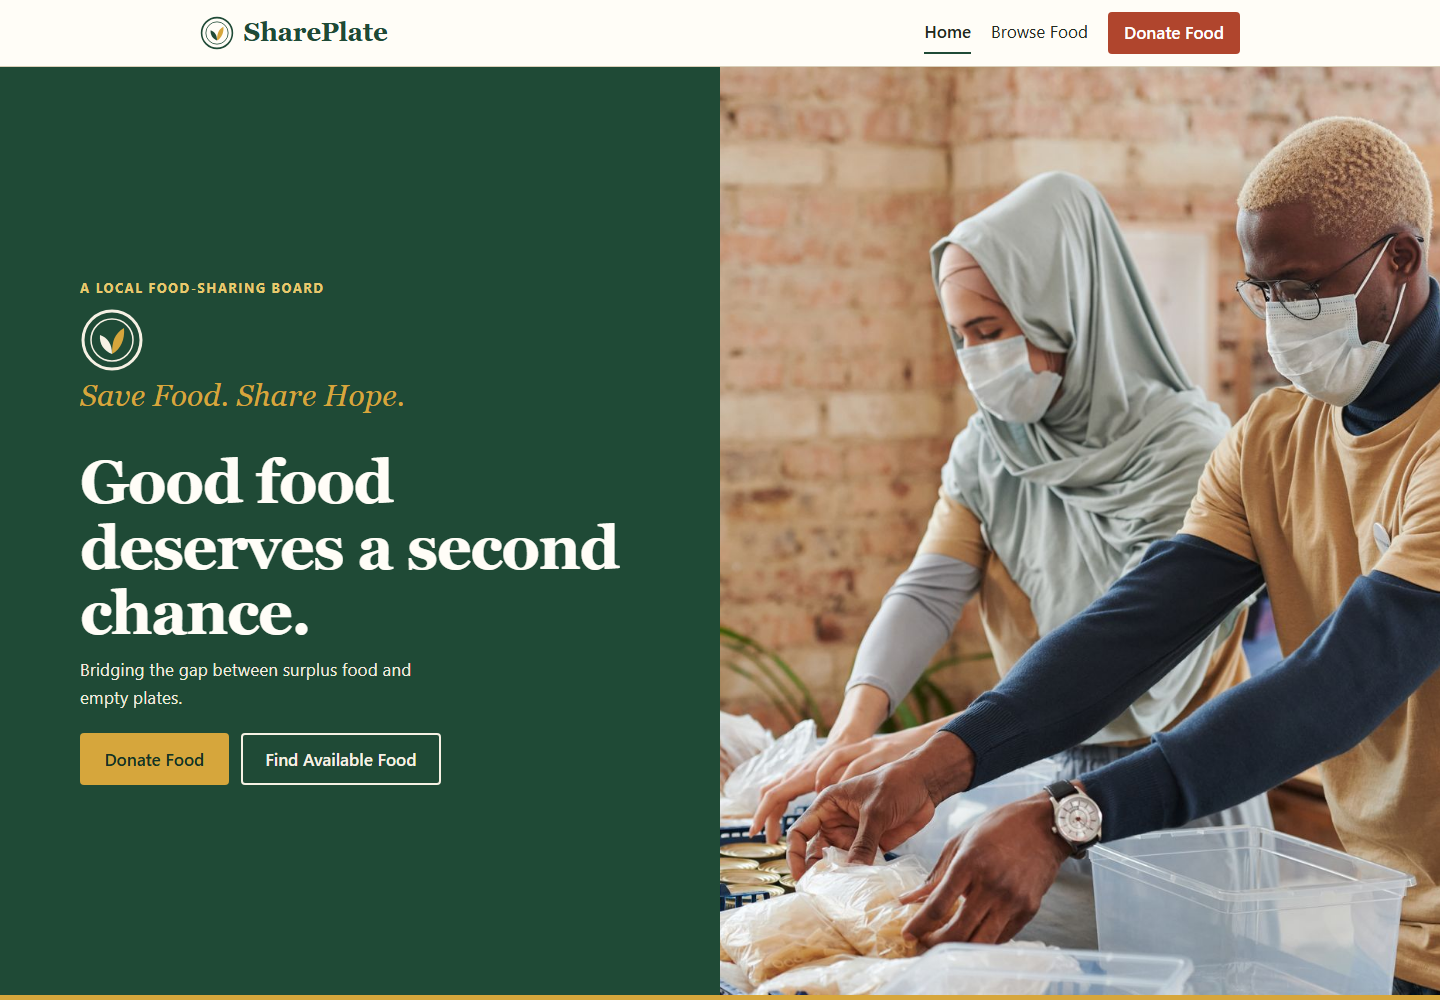
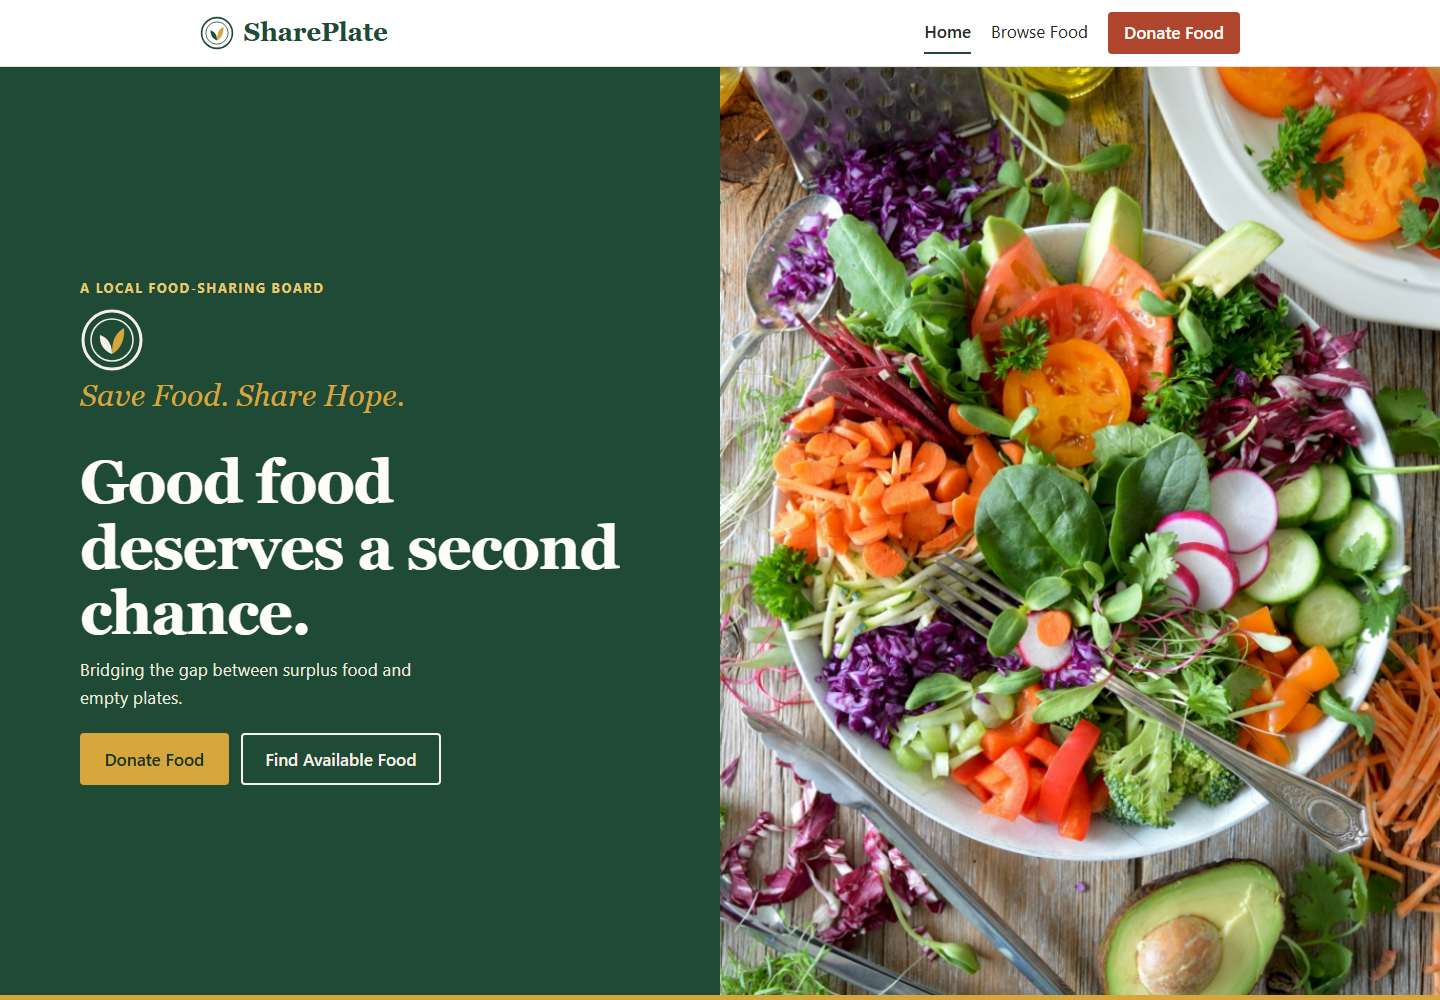
Refresh README with current project preview

diff --git a/README.md b/README.md
@@ -4,60 +4,77 @@
 
 ### Save Food. Share Hope.
 
-A simple community platform that helps surplus food find the people who can use it.
+**Good food deserves a second chance.**
 
-[Preview the app](docs/screenshots/01-home-desktop.png) · [CA3 guide](CA3_GUIDE.md) · [Project report](docs/CA3_Report.md) · [Postman collection](docs/SharePlate.postman_collection.json)
+A community food rescue app that helps surplus food find a new table.
+
+<br />
+
+![SharePlate homepage — fresh food photo, forest green and warm white design](docs/screenshots/01-home-desktop.png)
+
+<br />
+
+[Explore the project](#-what-is-shareplate) · [Run it locally](#-run-shareplate-locally) · [CA3 guide](CA3_GUIDE.md) · [Project report](docs/CA3_Report.md)
 
 </div>
 
 ---
 
-## About
+## 🍽 What is SharePlate?
 
-SharePlate is a full-stack food donation project made for the MCA CO6 CA3 assessment. Donors can post surplus food with pickup details and an optional photo. Visitors can browse, search and filter available donations, then view the details needed to collect them.
+SharePlate is a full-stack MCA CO6 CA3 project built around one simple idea: **surplus food should reach people, not the bin.** A donor can list extra food with its quantity, pickup location, deadline and an optional photo. Visitors can browse current listings and find food available for collection.
 
-The project keeps the main ideas easy to follow: React pages call Express REST endpoints, controllers handle requests, Mongoose stores donations in MongoDB, and Multer handles uploaded photos.
+The app uses a React frontend, an Express REST API and MongoDB for storing donations. Its pages and backend are kept in small, readable parts so the project is straightforward to demonstrate and explain.
 
-## Screenshots
+## 🌿 What you can do
 
-| Homepage | Browse food |
+| Share food | Find food | Manage listings |
+| --- | --- | --- |
+| Add a donation with pickup details and an optional photo. | Search donations, filter by category and sort by newest or pickup deadline. | Open, edit or delete a donation listing. |
+
+- See a helpful empty state when there are no available donations.
+- Get clear feedback when the database is unavailable.
+- Use the layout on desktop or mobile.
+
+## 🖥 A look around
+
+<details>
+<summary>See the mobile homepage</summary>
+<br />
+
+![SharePlate mobile homepage](docs/screenshots/02-home-mobile.png)
+
+</details>
+
+<details>
+<summary>See Browse Food and Donate Food</summary>
+<br />
+
+| Browse Food | Donate Food |
 | --- | --- |
-| ![SharePlate homepage](docs/screenshots/01-home-desktop.png) | ![Browse food page](docs/screenshots/03-donations-desktop.png) |
+| ![Browse Food screen](docs/screenshots/03-donations-desktop.png) | ![Donate Food screen](docs/screenshots/04-donate-form-desktop.png) |
 
-| Donation form | Mobile homepage |
-| --- | --- |
-| ![Donation form](docs/screenshots/04-donate-form-desktop.png) | ![SharePlate on mobile](docs/screenshots/02-home-mobile.png) |
+</details>
 
-## Features
-
-- Responsive homepage with clear donor and receiver actions
-- Create a donation with title, donor, category, quantity, pickup location, deadline and optional photo
-- Browse donations from MongoDB
-- Search by title, donor, quantity or pickup location
-- Filter by food category and sort by newest or pickup deadline
-- Edit or delete a donation
-- Validate required fields and uploaded image type/size
-- Show a useful empty state when there are no donations
-- Keep database connection errors visible instead of showing sample data
-
-## Technology
+## 🧰 Built with
 
 - **Frontend:** React, Vite, React Router DOM, JavaScript and custom CSS
-- **Backend:** Node.js, Express, Mongoose and Multer
-- **Database:** MongoDB
-- **API checks:** Postman
+- **Backend:** Node.js and Express
+- **Database:** MongoDB with Mongoose
+- **Image upload:** Multer
+- **API demonstration:** Postman
 
-## Run locally
+## 🚀 Run SharePlate locally
 
-### Requirements
+### You’ll need
 
 - Node.js `20.19+`, `22.13+`, or `24+`
 - npm
 - A running local MongoDB service
 
-### 1. Configure the server
+### 1. Start the API
 
-Open a PowerShell terminal in the project folder and run:
+Open a PowerShell terminal at the project folder and run:
 
 ```powershell
 cd server
@@ -66,11 +83,13 @@ npm install
 npm start
 ```
 
-The API runs at `http://localhost:5000`. Keep this terminal open. The local settings in `server/.env.example` use MongoDB database `shareplate_ca3` on `127.0.0.1:27017`.
+The API starts at `http://localhost:5000`. Keep this terminal open. The example settings connect to local MongoDB at `127.0.0.1:27017` and use the project database `shareplate_ca3`.
+
+If `server/.env` already exists, skip `Copy-Item` so your existing settings stay untouched.
 
 ### 2. Start the website
 
-Open a second terminal in the project folder and run:
+Open a second terminal at the project folder and run:
 
 ```powershell
 cd client
@@ -78,29 +97,41 @@ npm install
 npm run dev
 ```
 
-Open the Vite address shown in the terminal, usually `http://localhost:5173`.
+Open the local address Vite prints in the terminal, usually `http://localhost:5173`.
 
-### Check the connection
+### 3. Check that it works
 
 - Website: `http://localhost:5173`
-- Donation listings: `http://localhost:5173/donations`
-- Donations API: `http://localhost:5000/api/donations`
+- Browse donations: `http://localhost:5173/donations`
+- API response: `http://localhost:5000/api/donations`
 
-The API should return JSON. An empty `data` array is normal before the first donation is added.
+An empty list is expected until you add your first donation from the website.
 
-## API routes
+## 🔌 API at a glance
 
-| Method | Route | Purpose |
+| Method | Endpoint | What it does |
 | --- | --- | --- |
-| `GET` | `/api/donations` | List donations |
-| `GET` | `/api/donations/:id` | Get one donation |
-| `POST` | `/api/donations` | Create a donation; accepts an optional image |
+| `GET` | `/api/donations` | List all donations |
+| `GET` | `/api/donations/:id` | View one donation |
+| `POST` | `/api/donations` | Create a donation and upload an optional photo |
 | `PUT` | `/api/donations/:id` | Update a donation |
-| `DELETE` | `/api/donations/:id` | Delete a donation |
+| `DELETE` | `/api/donations/:id` | Remove a donation |
 
-To try the requests, import [`docs/SharePlate.postman_collection.json`](docs/SharePlate.postman_collection.json) into Postman.
+Want to try the API in Postman? Import [`docs/SharePlate.postman_collection.json`](docs/SharePlate.postman_collection.json).
 
-## Project layout
+## 📚 CA3 concepts in this project
+
+| Assessment concept | Where to look |
+| --- | --- |
+| Routing | `client/src/App.jsx`, `server/routes/donationRoutes.js` |
+| Middleware | `server/middleware/` |
+| Controllers | `server/controllers/donationController.js` |
+| REST API | `server/routes/donationRoutes.js` |
+| File upload | `server/middleware/upload.js`, `server/uploads/` |
+
+For the step-by-step code explanation and viva preparation, see [`CA3_GUIDE.md`](CA3_GUIDE.md). The written submission is in [`docs/CA3_Report.md`](docs/CA3_Report.md).
+
+## 🗂 Project map
 
 ```text
 SharePlate_CA3/
@@ -108,47 +139,29 @@ SharePlate_CA3/
 │   ├── public/images/       Homepage image and static assets
 │   └── src/
 │       ├── components/      Navbar, footer, logo and donation card
-│       ├── pages/           Home, donations, form and not-found pages
-│       ├── services/        API calls used by the frontend
-│       └── styles.css       Custom responsive styles
+│       ├── pages/           Home, browse, donation form and not-found pages
+│       ├── services/        Frontend API calls
+│       └── styles.css       Responsive custom styling
 ├── server/
 │   ├── config/              MongoDB connection
-│   ├── controllers/         Donation request logic
-│   ├── middleware/          Validation, upload, logging and errors
+│   ├── controllers/         Donation logic
+│   ├── middleware/          Validation, upload, logging and error handling
 │   ├── models/              Mongoose donation model
-│   ├── routes/              REST API routes
+│   ├── routes/              REST endpoints
 │   └── uploads/              Uploaded donation photos
 └── docs/                    Screenshots, report and Postman collection
 ```
 
-## CA3 concepts demonstrated
+## 🔐 Keep database credentials private
 
-- **Routing:** React Router pages and Express donation routes
-- **Middleware:** request logging, validation, image upload, database availability and error handling
-- **Controllers:** donation CRUD logic kept separate from route definitions
-- **REST API:** GET, POST, PUT and DELETE endpoints
-- **File upload:** optional donation images handled with Multer
-
-## Useful commands
-
-Run these from the matching folder:
-
-| Folder | Command | Purpose |
-| --- | --- | --- |
-| `client` | `npm run dev` | Start the frontend |
-| `client` | `npm run lint` | Check frontend code style |
-| `client` | `npm run build` | Create the frontend production build |
-| `server` | `npm start` | Start the API |
-| `server` | `npm run dev` | Start the API with Node watch mode |
-
-## Safety note
-
-The real `server/.env` file is local and must not be committed. Keep using `.env.example` as the template; do not put database passwords or private connection strings in GitHub.
+Use `server/.env.example` as a local template. Your actual `server/.env` file is ignored by Git and should never be committed or shared. The example file is safe to keep in the repository.
 
 ---
 
 <div align="center">
 
-**SharePlate — saving food, sharing smiles, building hope.**
+**Less waste. More care. Stronger communities.**
+
+Made with care for the MCA CO6 CA3 project.
 
 </div>
